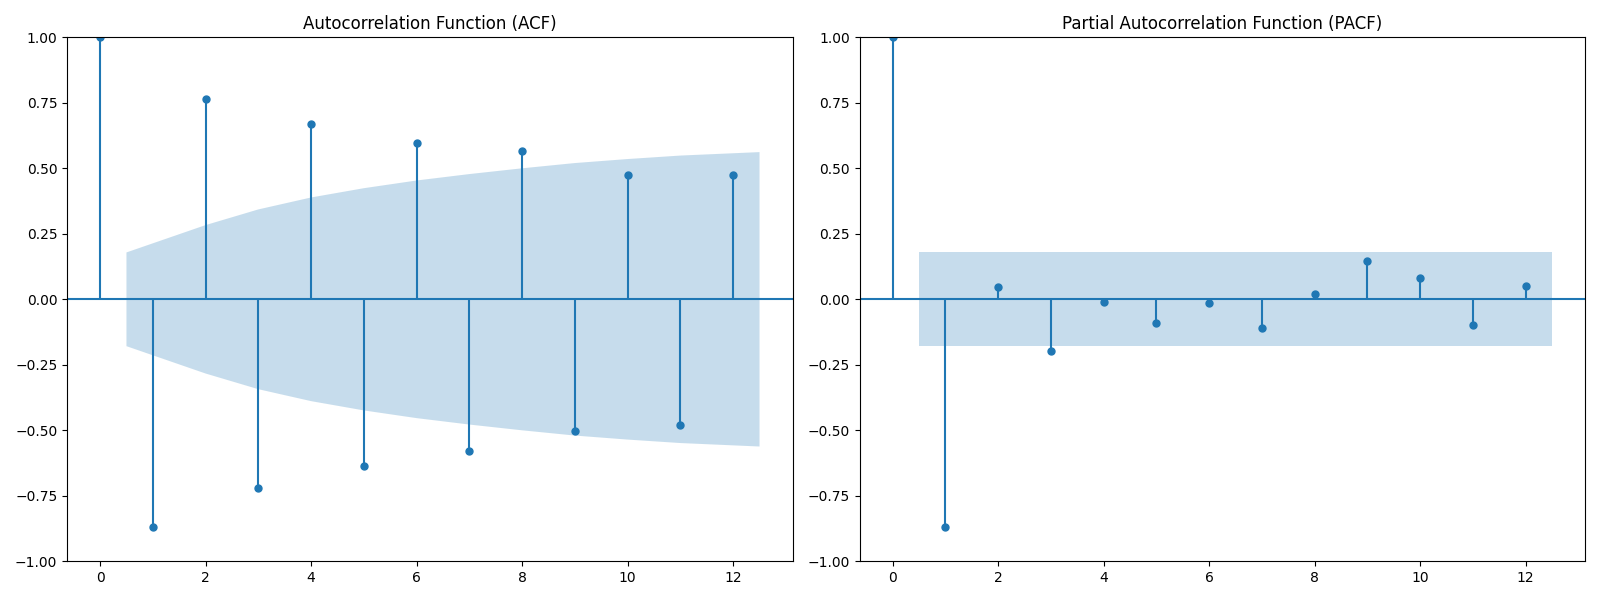
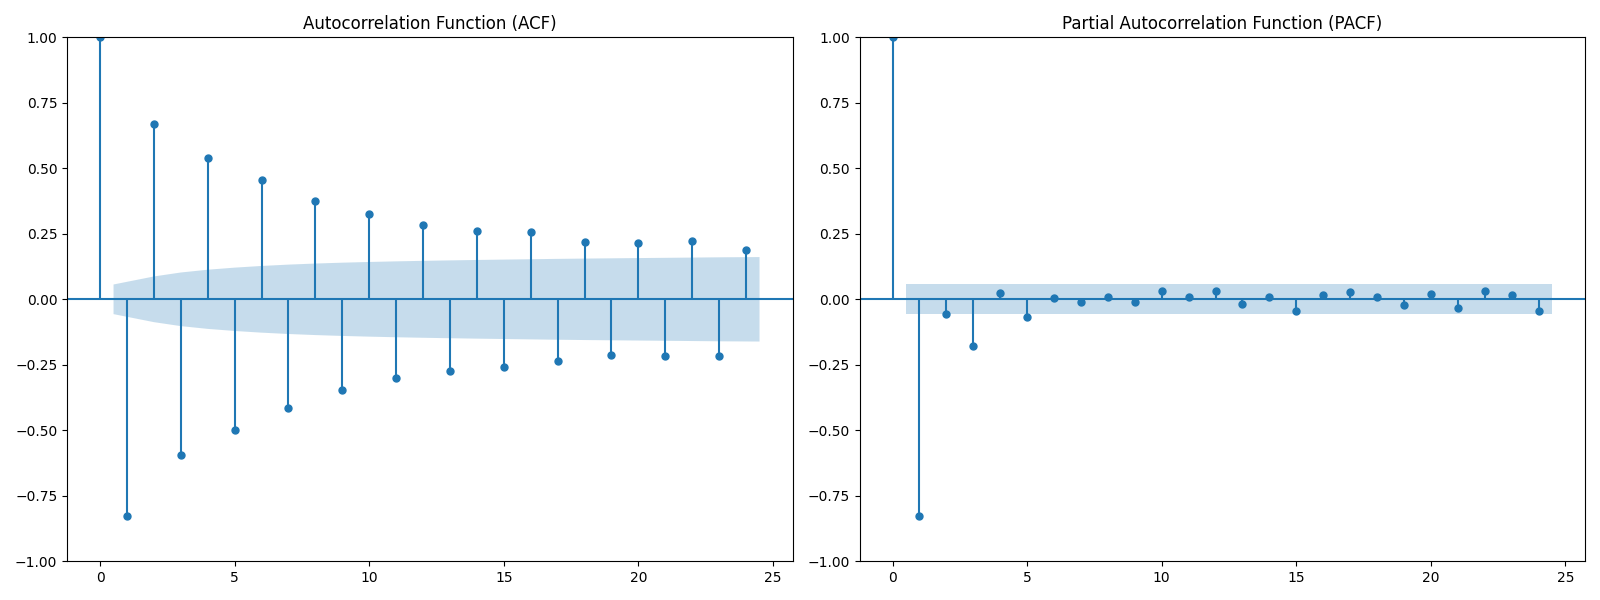
v2 ex2

diff --git a/ex2.py b/ex2.py
@@ -62,9 +62,9 @@ def simulate_seasonal_arima(phi=[1], d=1, theta=[1], Phi=[1], D=1, Theta=[1], s=
 
     # Plot ACF and PACF
     fig, axes = plt.subplots(1, 2, figsize=(16, 6))
-    plot_acf(y, lags=12, ax=axes[0])
+    plot_acf(y, lags=24, ax=axes[0])
     axes[0].set_title('Autocorrelation Function (ACF)')
-    plot_pacf(y, lags=12, ax=axes[1])
+    plot_pacf(y, lags=24, ax=axes[1])
     axes[1].set_title('Partial Autocorrelation Function (PACF)')
     plt.tight_layout()
     plt.savefig(f'{label}_acf_pacf.png')
@@ -75,21 +75,21 @@ def simulate_seasonal_arima(phi=[1], d=1, theta=[1], Phi=[1], D=1, Theta=[1], s=
 
 # Example usage:
 # 2.1
-simulate_seasonal_arima(phi=[0.6], d=0, theta=[], Phi=[], D=0, Theta=[], s=12, n=120, label='Example 2.1')
+simulate_seasonal_arima(phi=[0.6], d=0, theta=[], Phi=[], D=0, Theta=[], s=12, n=1200, label='Example 2.1')
 # 2.2
-simulate_seasonal_arima(phi=[], d=0, theta=[], Phi=[-0.9], D=0, Theta=[], s=12, n=120, label='Example 2.2')
+simulate_seasonal_arima(phi=[], d=0, theta=[], Phi=[-0.9], D=0, Theta=[], s=12, n=1200, label='Example 2.2')
 
 # 2.3
-simulate_seasonal_arima(phi=[0.9], d=0, theta=[], Phi=[], D=0, Theta=[-0.7], s=12, n=120, label='Example 2.3')
+simulate_seasonal_arima(phi=[0.9], d=0, theta=[], Phi=[], D=0, Theta=[-0.7], s=12, n=1200, label='Example 2.3')
 
 # 2.4
-simulate_seasonal_arima(phi=[-0.6], d=0, theta=[], Phi=[-0.8], D=0, Theta=[], s=12, n=120,  label='Example 2.4')
+simulate_seasonal_arima(phi=[-0.6], d=0, theta=[], Phi=[-0.8], D=0, Theta=[], s=12, n=1200,  label='Example 2.4')
 
 # 2.5
-simulate_seasonal_arima(phi=[], d=0, theta=[0.4], Phi=[], D=0, Theta=[-0.8], s=12, n=120, label='Example 2.5')
+simulate_seasonal_arima(phi=[], d=0, theta=[0.4], Phi=[], D=0, Theta=[-0.8], s=12, n=1200, label='Example 2.5')
 
 # 2.6
-simulate_seasonal_arima(phi=[], d=0, theta=[-0.4], Phi=[0.7], D=0, Theta=[], s=12, n=120, label='Example 2.6')
+simulate_seasonal_arima(phi=[], d=0, theta=[-0.4], Phi=[0.7], D=0, Theta=[], s=12, n=1200, label='Example 2.6')
 
-#simulate_seasonal_arima(0,0,0,1,0,0,12, 120)
+#simulate_seasonal_arima(0,0,0,1,0,0,12, 1200)
 
